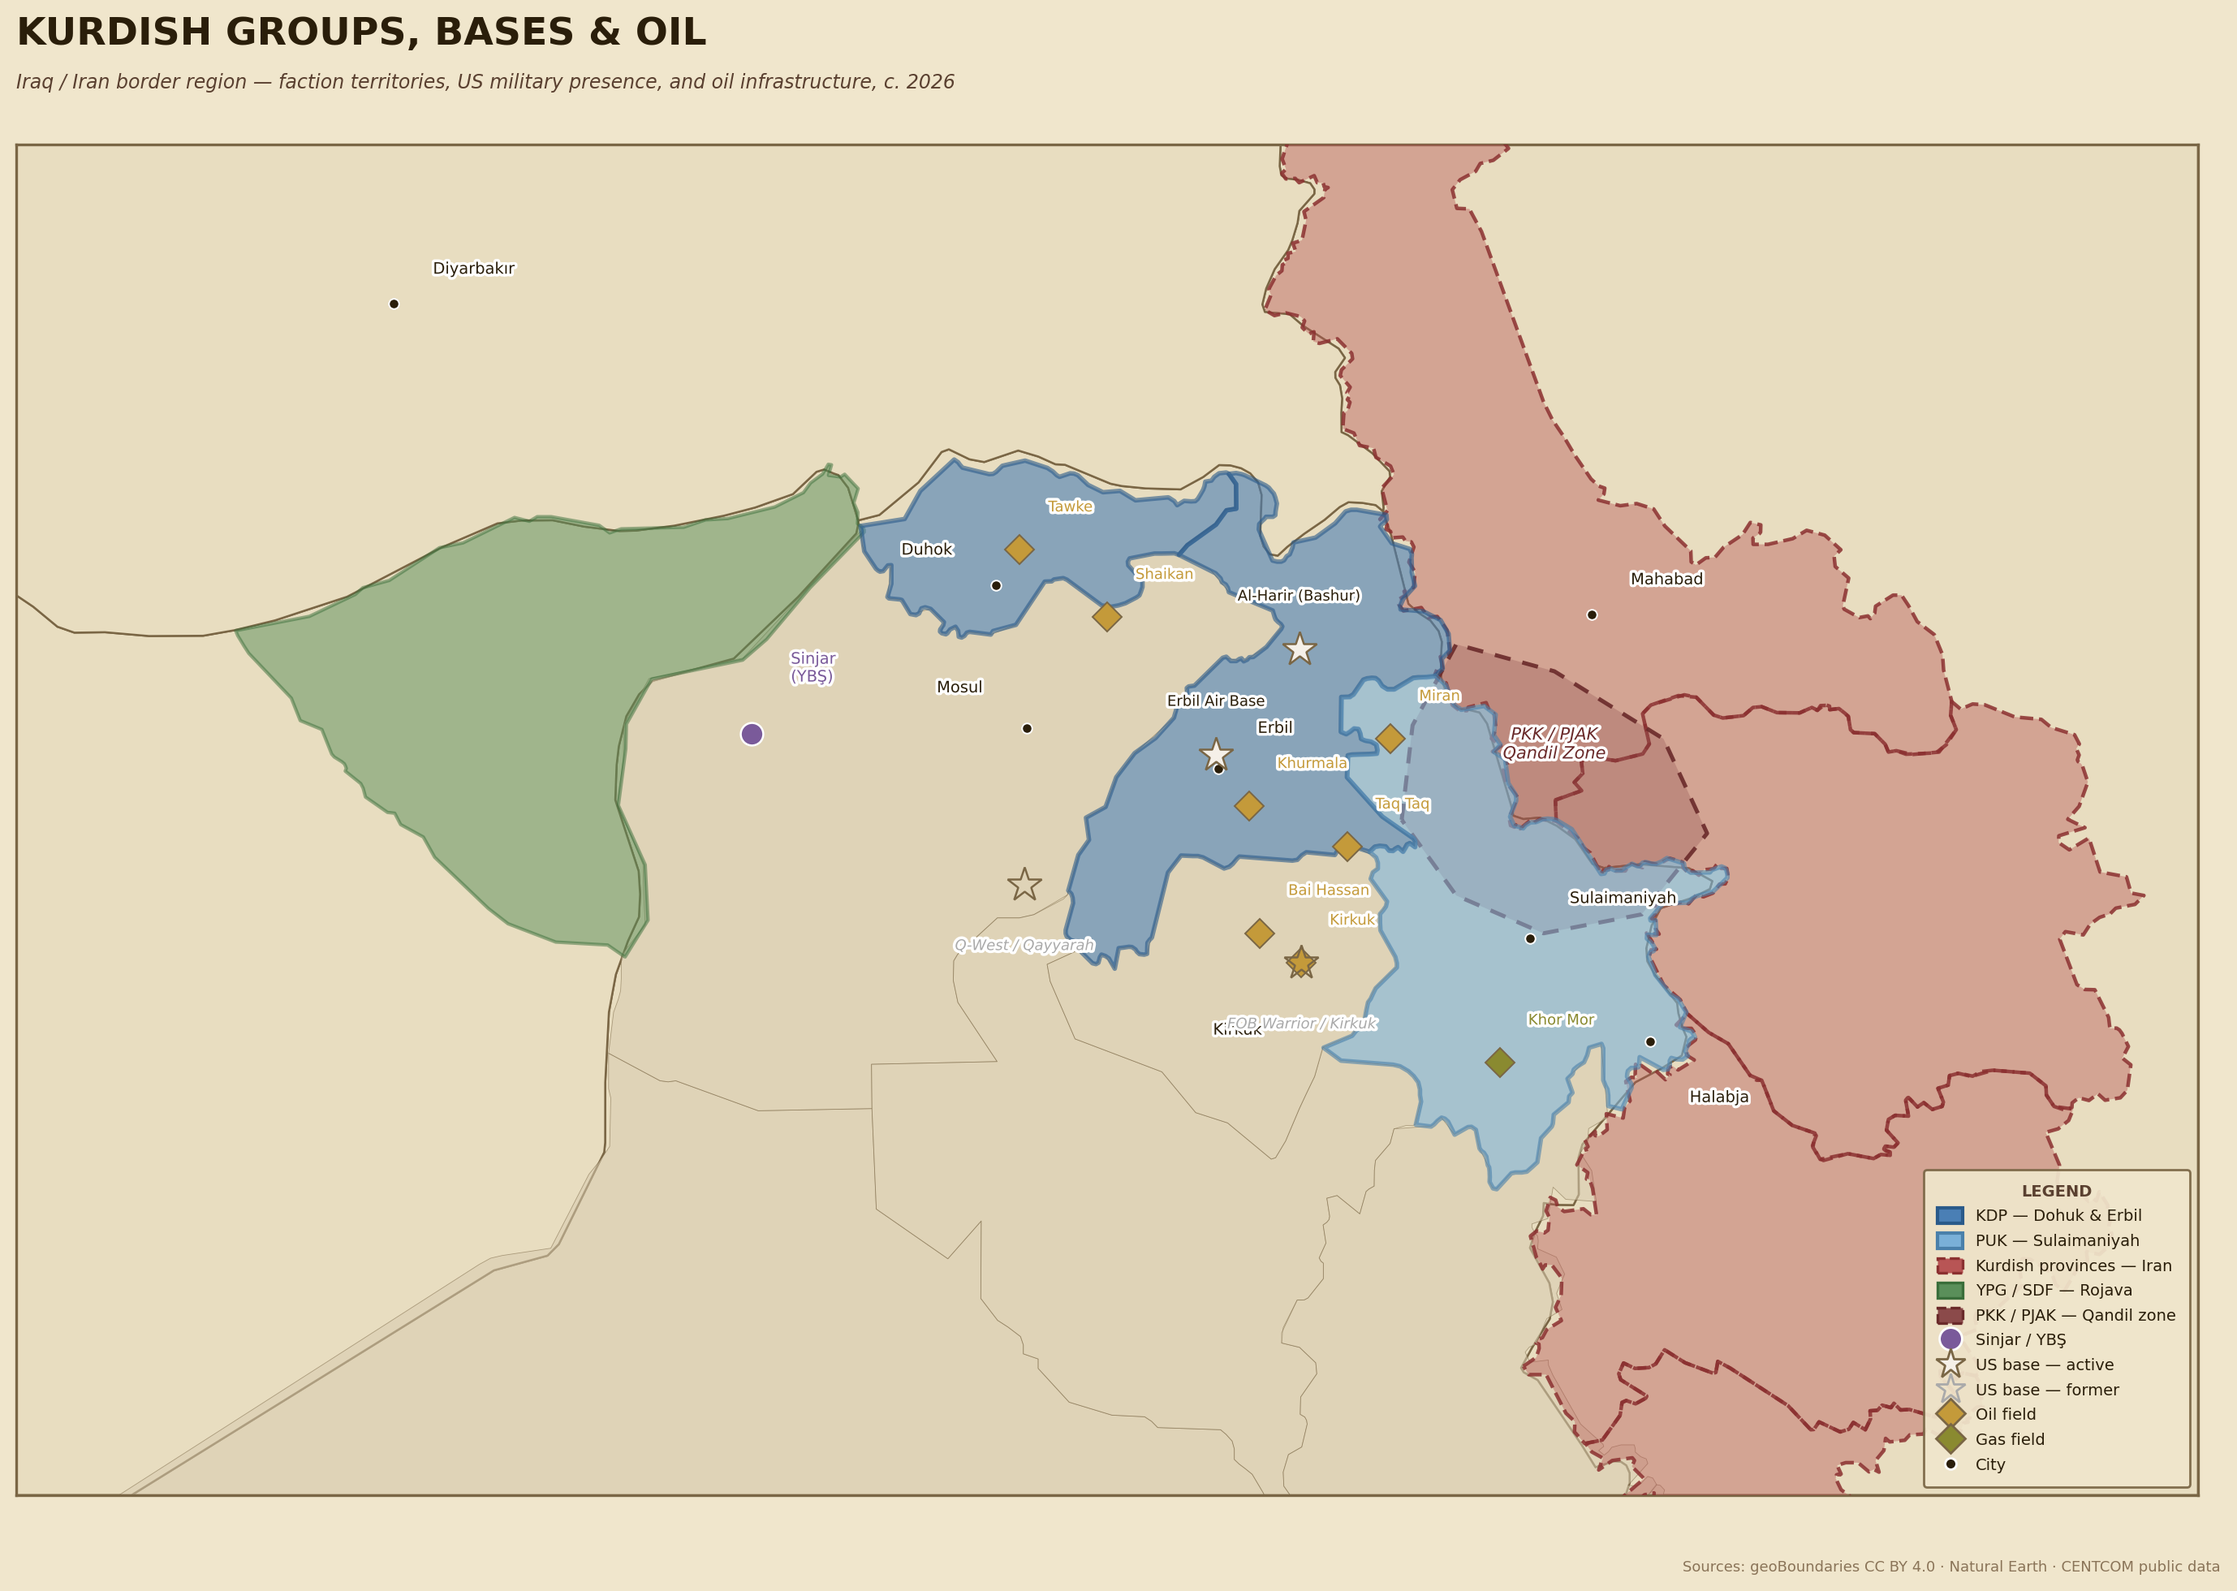
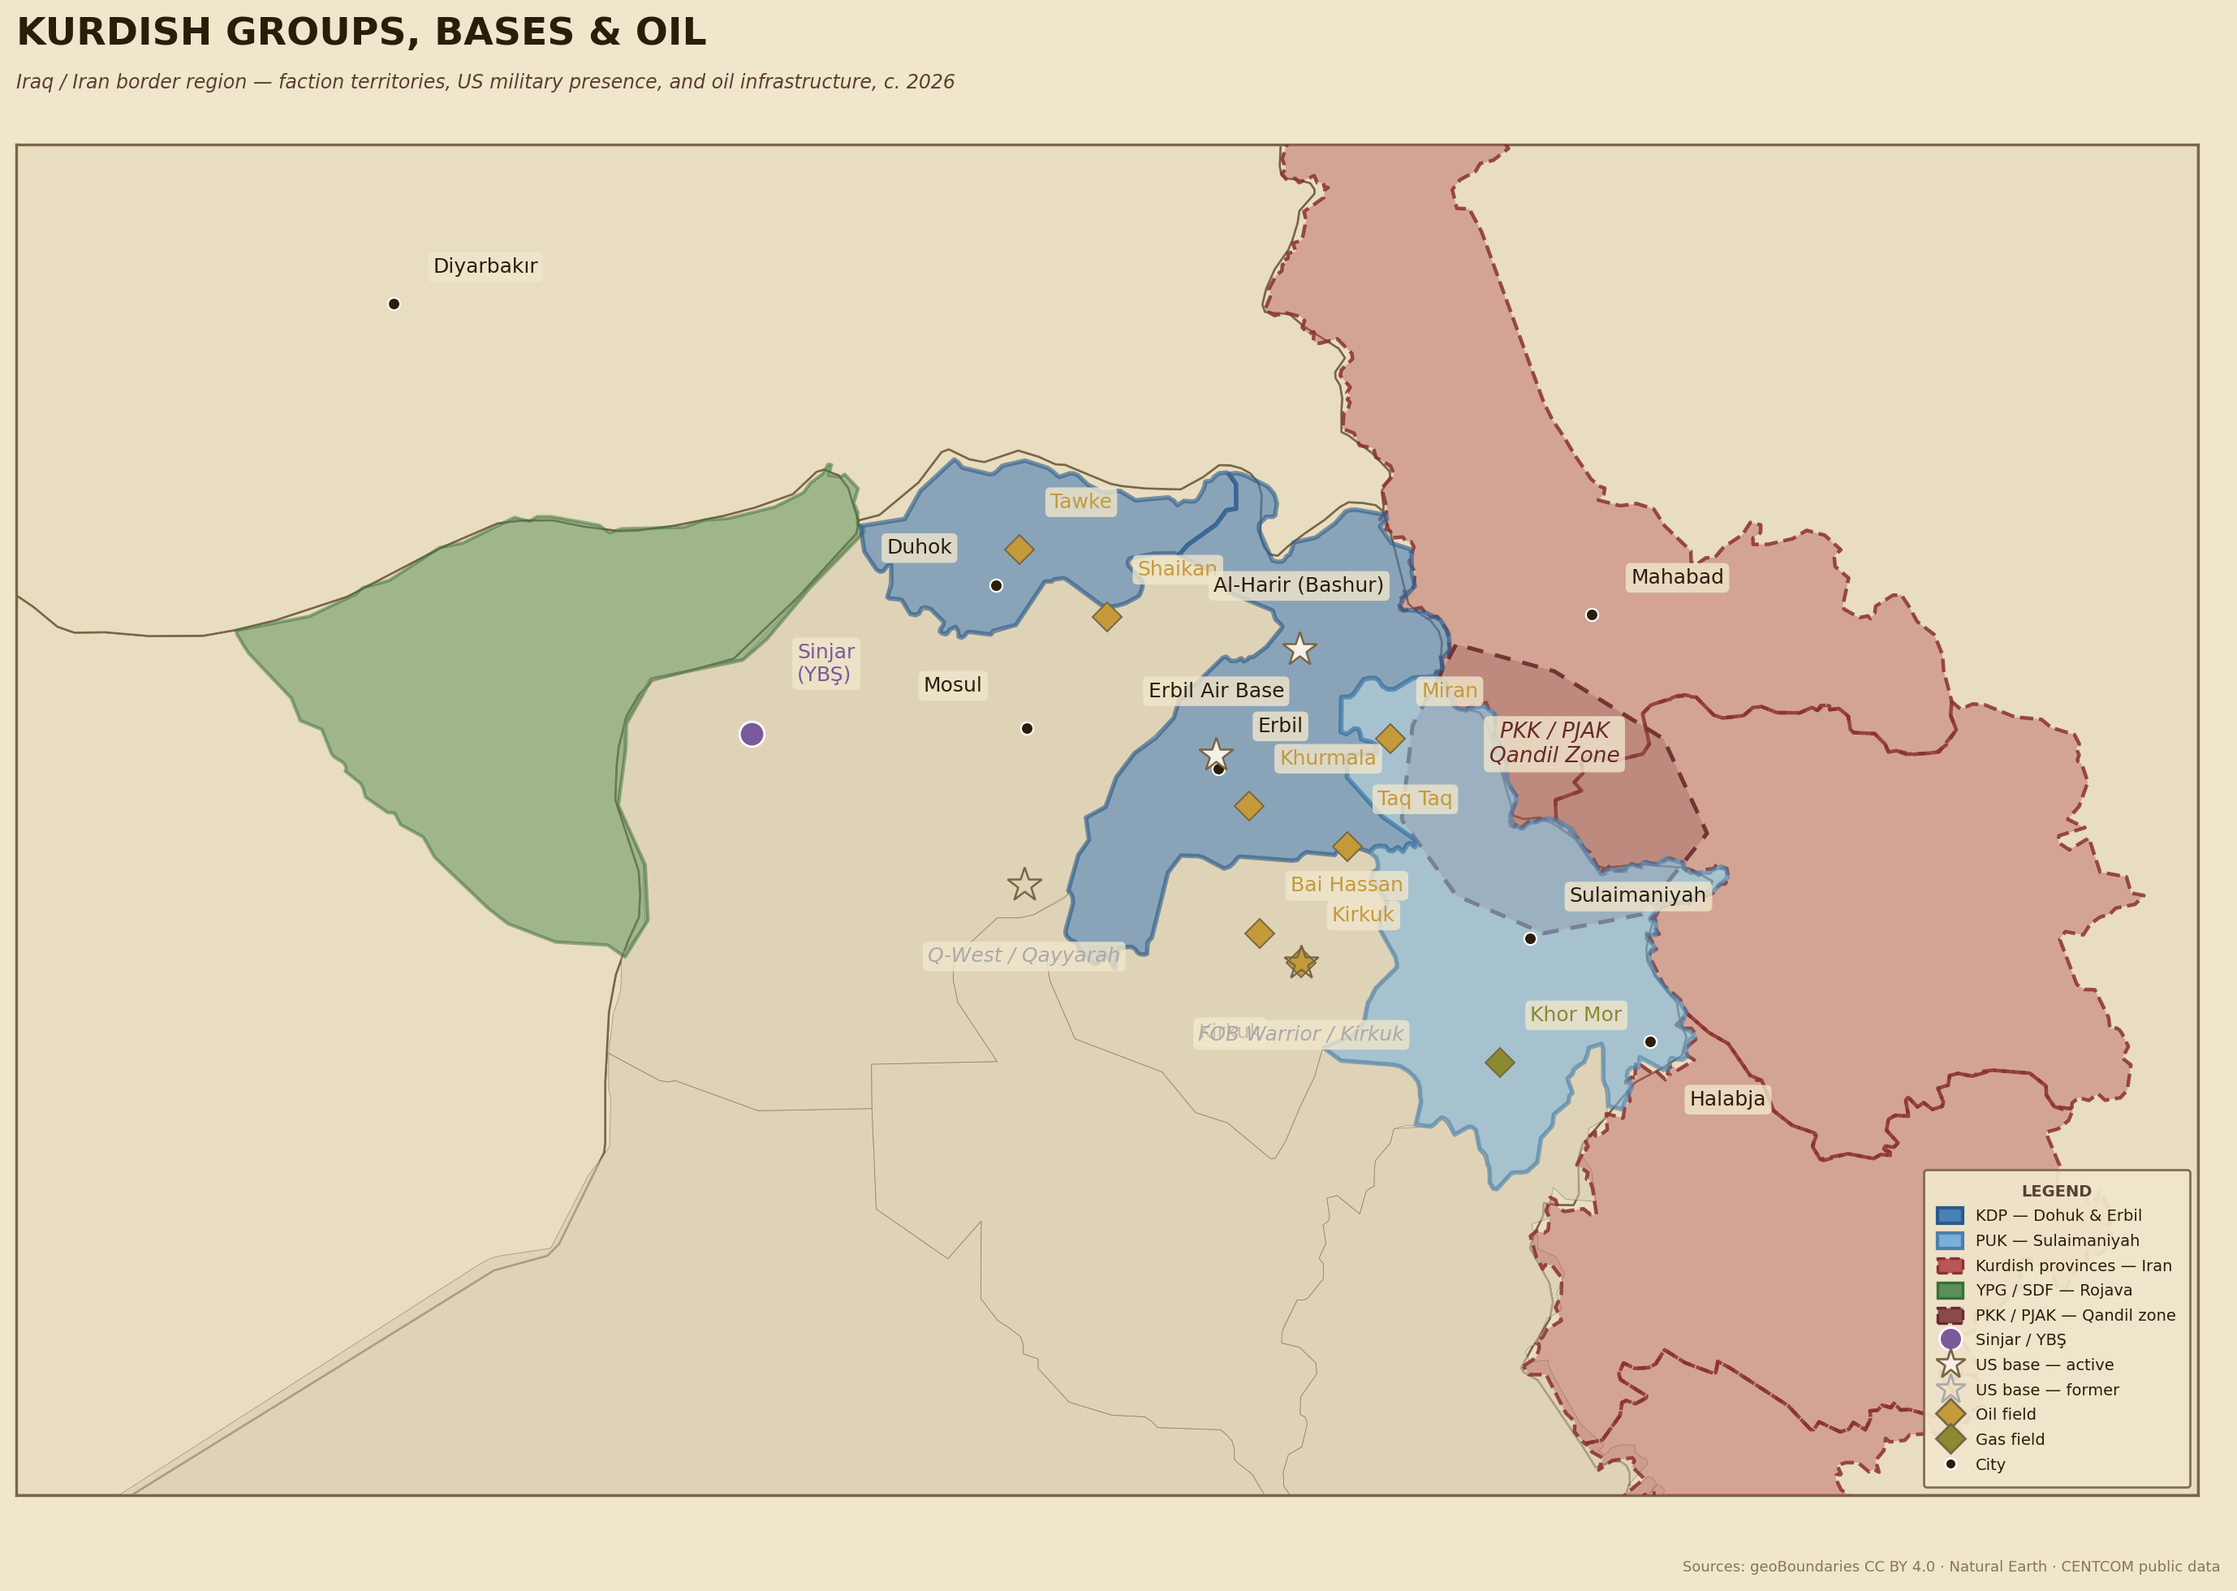
Improve Map 2 typography; swap static maps into Tab 1; interactive to Tab 3
Map 2 regenerated:
- Replace path_effects stroke halos with clean parchment bbox backgrounds
- Increase all label fontsize (city/base/oil labels: 7→9, PKK zone: 7.5→9.5)
- Slightly larger markers

Article restructure:
- Tab 1: Static PNG images replace Leaflet divs (instant load, no CDN)
- Tab 3: Renamed "Interactive Maps", houses both Leaflet maps
- Leaflet maps lazy-init on first Tab 3 click (fixes Leaflet sizing bug
  when map container is display:none at init time)
- Removed auto initMaps() call on page load

https://claude.ai/code/session_01Xj4irYVRRmpTNsbLwHkwSr

diff --git a/articles/kurdistan_explainer.html b/articles/kurdistan_explainer.html
@@ -352,7 +352,7 @@ p a:hover, .source-link:hover { color: var(--white); border-bottom-color: var(--
 <nav class="tab-nav">
   <button class="tab-btn active" onclick="switchTab('tab1')">Kurdistan Background</button>
   <button class="tab-btn" onclick="switchTab('tab2')">Works Cited</button>
-  <button class="tab-btn" onclick="switchTab('tab3')">Coming Soon</button>
+  <button class="tab-btn" onclick="switchTab('tab3')">Interactive Maps</button>
 </nav>
 
 <!-- ===================== TAB 1 ===================== -->
@@ -379,10 +379,10 @@ p a:hover, .source-link:hover { color: var(--white); border-bottom-color: var(--
   Borders are traced from approximate real-world coordinates.
 -->
 <div class="map-container">
-  <div class="map-title">Greater Kurdistan Region — Four-Country Overlap (Interactive)</div>
-  <div id="map1" style="width:100%; height:550px; border-radius:4px; background:#0e0e0e;"></div>
+  <div class="map-title">Greater Kurdistan Region — Four-Country Overlap</div>
+  <img src="../maps/kurdistan_map1.png" alt="Kurdish Regions Across Four States — provincial and administrative extent across Turkey, Iraq, Iran, and Syria" style="width:100%; display:block; border-radius:4px;">
   <div style="font-family:var(--font-mono); font-size:0.6rem; color:#555; margin-top:8px; letter-spacing:0.5px;">
-    Map tiles: OpenStreetMap. Kurdistan ethnic boundary: Kurdish Institute Paris / CIA ethnographic references. KRG admin boundary: OCHA Iraq COD-AB (HDX). Country borders: Natural Earth via OpenStreetMap.
+    Sources: geoBoundaries CC BY 4.0 · Natural Earth · Kurdish Institute Paris / CIA ethnographic references.
   </div>
 </div>
 
@@ -528,12 +528,12 @@ p a:hover, .source-link:hover { color: var(--white); border-bottom-color: var(--
 <p>Exports resumed in September 2025 under an interim deal placing Baghdad's SOMO as sole marketer, producing ~220,000 bpd and generating $1.2 billion by year-end (<a href="https://www.aljazeera.com/news/2025/9/27/iraq-resumes-kurdish-oil-exports-to-turkiye-after-two-and-a-half-year-halt" target="_blank">Al Jazeera</a>). Analysts described the deal as a "transitional truce" (<a href="https://www.atlanticcouncil.org/blogs/menasource/is-the-baghdad-erbil-oil-deal-a-blueprint-for-settlement-or-a-stopgap/" target="_blank">Atlantic Council</a>). In May 2025, the KRG signed separate $110 billion gas agreements with US firms HKN Energy and WesternZagros, immediately condemned by Baghdad as unconstitutional (<a href="https://www.iraq-businessnews.com/2025/05/21/krgs-us-energy-deals-spark-fresh-dispute-with-baghdad/" target="_blank">Iraq Business News</a>). Drone strikes on five KRG oil fields in July 2025 cut production by 70%, with officials blaming Iran-backed militias (<a href="https://www.hrw.org/news/2025/07/29/iraq-damage-to-kurdistan-region-oil-fields-puts-rights-at-risk" target="_blank">HRW</a>).</p>
 </div>
 
-<!-- MAP 2: TERRITORIAL CONTROL & OIL — Interactive -->
+<!-- MAP 2: OPERATIONAL -->
 <div class="map-container">
-  <div class="map-title">Kurdish Group Territories, US Bases &amp; Oil Infrastructure — Iraq/Iran Border Region (Interactive)</div>
-  <div id="map2" style="width:100%; height:600px; border-radius:4px; background:#0e0e0e;"></div>
+  <div class="map-title">Kurdish Groups, Bases &amp; Oil — Iraq/Iran Border Region</div>
+  <img src="../maps/kurdistan_map2.png" alt="Kurdish faction territories, US military bases, and oil infrastructure in the Iraq/Iran border region" style="width:100%; display:block; border-radius:4px;">
   <div style="font-family:var(--font-mono); font-size:0.6rem; color:#555; margin-top:8px; letter-spacing:0.5px;">
-    Map tiles: OpenStreetMap. Group territories approximate from open-source reporting. Oil field &amp; base coordinates from public geographic data. KRG boundary: OCHA Iraq COD-AB (HDX).
+    Sources: geoBoundaries CC BY 4.0 · Natural Earth · CENTCOM public data. Group territories approximate from open-source reporting.
   </div>
 </div>
 
@@ -761,10 +761,26 @@ p a:hover, .source-link:hover { color: var(--white); border-bottom-color: var(--
 
 <!-- ===================== TAB 3 ===================== -->
 <div id="tab3" class="tab-content">
-<div class="coming-soon">
-  <h2>Coming Soon</h2>
-  <p>This section is under development. Check back for updates.</p>
-  <div style="margin-top: 40px; width: 60px; height: 2px; background: var(--gold-dim); margin-left: auto; margin-right: auto;"></div>
+<div style="max-width:960px; margin:0 auto; padding:32px 20px;">
+  <div class="section-label">Interactive</div>
+  <h2>Dynamic Maps</h2>
+  <p style="color:var(--white-dim); margin-bottom:32px; font-size:0.95rem;">Pan, zoom, and click any region or marker for details. Maps initialize on first load of this tab.</p>
+
+  <div class="map-container">
+    <div class="map-title">Greater Kurdistan Region — Four-Country Overlap (Interactive)</div>
+    <div id="map1" style="width:100%; height:550px; border-radius:4px; background:#0e0e0e;"></div>
+    <div style="font-family:var(--font-mono); font-size:0.6rem; color:#555; margin-top:8px; letter-spacing:0.5px;">
+      Map tiles: OpenStreetMap. Kurdistan ethnic boundary: Kurdish Institute Paris / CIA. KRG boundary: OCHA Iraq COD-AB.
+    </div>
+  </div>
+
+  <div class="map-container" style="margin-top:40px;">
+    <div class="map-title">Kurdish Group Territories, US Bases &amp; Oil Infrastructure (Interactive)</div>
+    <div id="map2" style="width:100%; height:600px; border-radius:4px; background:#0e0e0e;"></div>
+    <div style="font-family:var(--font-mono); font-size:0.6rem; color:#555; margin-top:8px; letter-spacing:0.5px;">
+      Map tiles: OpenStreetMap. Group territories approximate from open-source reporting. Oil field &amp; base coordinates from public geographic data.
+    </div>
+  </div>
 </div>
 </div>
 
@@ -775,6 +791,7 @@ p a:hover, .source-link:hover { color: var(--white); border-bottom-color: var(--
 
 <script>
 // TAB SWITCHING
+var mapsInitialized = false;
 function switchTab(tabId) {
   document.querySelectorAll(".tab-content").forEach(function(t){ t.classList.remove("active"); });
   document.querySelectorAll(".tab-btn").forEach(function(b){ b.classList.remove("active"); });
@@ -783,7 +800,13 @@ function switchTab(tabId) {
   var tabs = ["tab1","tab2","tab3"];
   btns[tabs.indexOf(tabId)].classList.add("active");
   window.scrollTo({ top: 0, behavior: "smooth" });
-  setTimeout(function(){ if(window.map1) map1.invalidateSize(); if(window.map2) map2.invalidateSize(); }, 300);
+  // Lazy-init interactive maps the first time Tab 3 is opened
+  if (tabId === 'tab3' && !mapsInitialized) {
+    mapsInitialized = true;
+    setTimeout(initMaps, 50);
+  } else {
+    setTimeout(function(){ if(window.map1) map1.invalidateSize(); if(window.map2) map2.invalidateSize(); }, 300);
+  }
 }
 
 // EMBEDDED ADMIN BOUNDARIES (geoBoundaries CC BY 4.0)
@@ -998,14 +1021,8 @@ function initMaps() {
   }, 200);
 }
 
-// Robust init: works whether DOMContentLoaded has already fired or not
-if (document.readyState === 'loading') {
-  document.addEventListener('DOMContentLoaded', initMaps);
-} else {
-  initMaps();
-}
-
-// Re-invalidate after all resources (web fonts, images) finish loading
+// Interactive maps initialize lazily when Tab 3 is first opened (see switchTab).
+// Re-invalidate on full page load in case tab3 was already active.
 window.addEventListener('load', function() {
   if (window.map1) map1.invalidateSize();
   if (window.map2) map2.invalidateSize();

diff --git a/maps/generate_maps.py b/maps/generate_maps.py
@@ -279,6 +279,11 @@ def generate_map1(countries: gpd.GeoDataFrame, admin: gpd.GeoDataFrame) -> None:
 
 
 # ─── MAP 2: Operational ───────────────────────────────────────────────────────
+def lbox(bg: str = '#f0e6cc', alpha: float = 0.80):
+    """Clean parchment-backed label box — replaces rough stroke halos."""
+    return dict(boxstyle='round,pad=0.25', facecolor=bg, alpha=alpha, edgecolor='none')
+
+
 def generate_map2(countries: gpd.GeoDataFrame, admin: gpd.GeoDataFrame) -> None:
     LON_MIN, LON_MAX, LAT_MIN, LAT_MAX = 38.5, 48.5, 33.5, 38.5
     vbox = box(LON_MIN, LAT_MIN, LON_MAX, LAT_MAX)
@@ -331,17 +336,17 @@ def generate_map2(countries: gpd.GeoDataFrame, admin: gpd.GeoDataFrame) -> None:
     qgdf.plot(ax=ax, facecolor=C['pkk'], edgecolor='none', alpha=0.28, zorder=3)
     qgdf.boundary.plot(ax=ax, color='#6a2a2a', linewidth=1.8,
                        linestyle=(0, (4, 3)), alpha=0.90, zorder=3)
-    ax.text(45.55, 36.28, 'PKK / PJAK\nQandil Zone', fontsize=7.5,
+    ax.text(45.55, 36.28, 'PKK / PJAK\nQandil Zone', fontsize=9.5,
             color='#6a2a2a', ha='center', va='center',
-            fontstyle='italic', path_effects=halo(2.5), zorder=9)
+            fontstyle='italic', bbox=lbox(), zorder=9)
 
     # ── Sinjar / YBŞ ──────────────────────────────────────────────────────────
-    ax.plot(41.87, 36.32, 'o', markersize=10, color=C['sinjar'],
-            markeredgecolor='white', markeredgewidth=0.9,
+    ax.plot(41.87, 36.32, 'o', markersize=11, color=C['sinjar'],
+            markeredgecolor='white', markeredgewidth=1.0,
             zorder=8, linestyle='none')
-    ax.text(42.05, 36.50, 'Sinjar\n(YBŞ)', fontsize=7,
+    ax.text(42.08, 36.50, 'Sinjar\n(YBŞ)', fontsize=9,
             color=C['sinjar'], ha='left', va='bottom',
-            path_effects=halo(2.5), zorder=10)
+            bbox=lbox(), zorder=10)
 
     ax.set_xlim(LON_MIN, LON_MAX)
     ax.set_ylim(LAT_MIN, LAT_MAX)
@@ -360,13 +365,13 @@ def generate_map2(countries: gpd.GeoDataFrame, admin: gpd.GeoDataFrame) -> None:
     ]
     for name, lat, lon, (dx, dy) in cities:
         if LON_MIN < lon < LON_MAX and LAT_MIN < lat < LAT_MAX:
-            ax.plot(lon, lat, 'o', markersize=4.5, color=C['text_dark'],
-                    markeredgecolor='white', markeredgewidth=0.7,
+            ax.plot(lon, lat, 'o', markersize=5.5, color=C['text_dark'],
+                    markeredgecolor='white', markeredgewidth=0.8,
                     zorder=8, linestyle='none')
-            ax.text(lon + dx, lat + dy, name, fontsize=7,
+            ax.text(lon + dx, lat + dy, name, fontsize=9,
                     color=C['text_dark'], ha='left' if dx > 0 else 'right',
                     va='bottom' if dy > 0 else 'top',
-                    path_effects=halo(2.5), zorder=9)
+                    bbox=lbox(), zorder=9)
 
     # ── US Military Bases ─────────────────────────────────────────────────────
     bases = [
@@ -382,12 +387,12 @@ def generate_map2(countries: gpd.GeoDataFrame, admin: gpd.GeoDataFrame) -> None:
             ax.plot(lon, lat, marker='*', markersize=16, linestyle='none',
                     markerfacecolor=fc, markeredgecolor=C['border'],
                     markeredgewidth=0.9, zorder=11)
-            dy = 0.17 if active else -0.20
-            ax.text(lon, lat + dy, name, fontsize=6.5,
+            dy = 0.20 if active else -0.23
+            ax.text(lon, lat + dy, name, fontsize=9,
                     color=C['text_dark'] if active else C['base_old'],
                     ha='center', va='bottom' if dy > 0 else 'top',
                     fontstyle='normal' if active else 'italic',
-                    path_effects=halo(2.5), zorder=12)
+                    bbox=lbox(), zorder=12)
 
     # ── Oil & Gas Fields ──────────────────────────────────────────────────────
     oil_fields = [
@@ -406,9 +411,9 @@ def generate_map2(countries: gpd.GeoDataFrame, admin: gpd.GeoDataFrame) -> None:
             ax.plot(lon, lat, marker='D', markersize=9, linestyle='none',
                     color=col, markeredgecolor=C['border'],
                     markeredgewidth=0.7, zorder=10)
-            ax.text(lon + 0.13, lat + 0.13, name, fontsize=6.5,
+            ax.text(lon + 0.14, lat + 0.14, name, fontsize=9,
                     color=col, ha='left', va='bottom',
-                    path_effects=halo(2.5), zorder=11)
+                    bbox=lbox(), zorder=11)
 
     # ── title ──────────────────────────────────────────────────────────────────
     fig.text(0.02, 0.97, 'KURDISH GROUPS, BASES & OIL',
